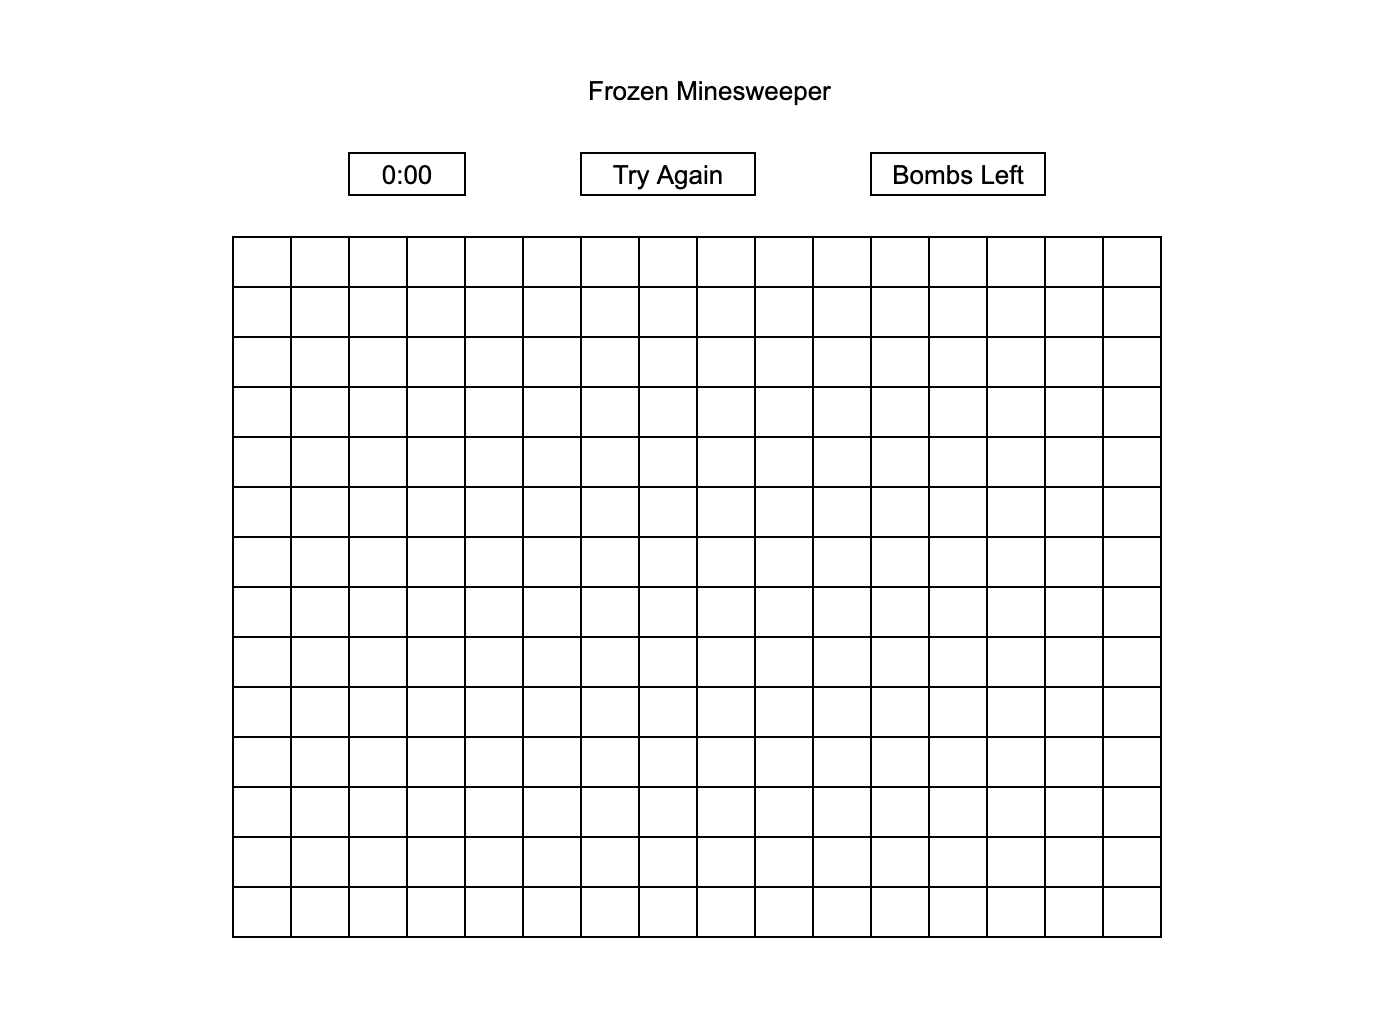
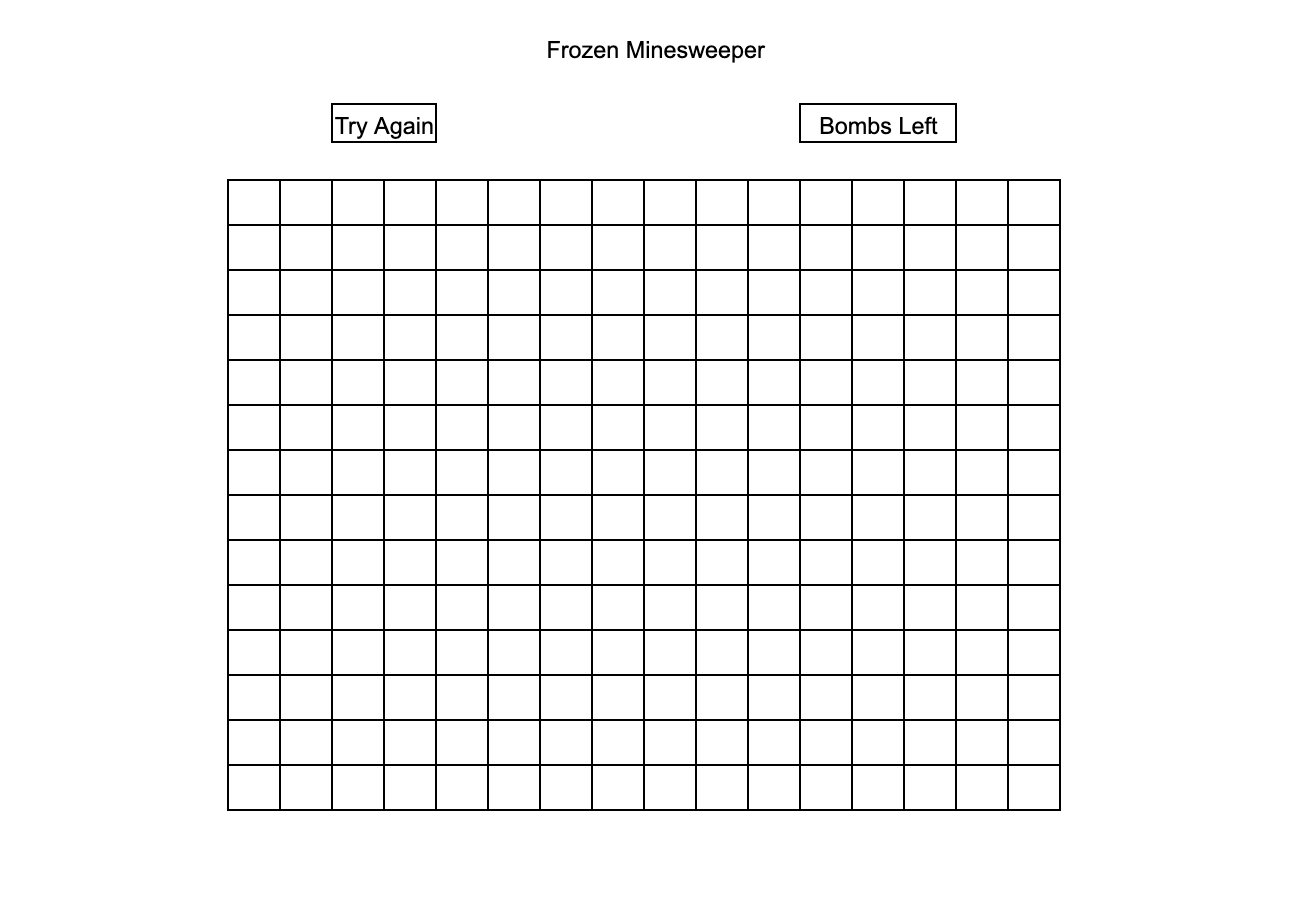
remove timer div

Changed region(s): [[0.1541, 0.0306, 0.832, 0.8884], [0.1849, 0.919, 0.832, 0.9497]]

diff --git a/index.html b/index.html
@@ -13,7 +13,6 @@
     <h1>FROZEN MINESWEEPER</h1>
     <h2 id="message"></h2>
     <section>
-        <div>00:00</div>
         <div id="restartBtn" >Try Again</div>
         <div id="flagsLeft">0</div>
     </section>

diff --git a/README.md b/README.md
@@ -60,8 +60,8 @@ Sven is tired of constantly being thought of as only a moose who loves carrots. 
 
 ## Next Steps:
 - Add a timer or stopwatch
-- Add background music or win/loss audio
+- ~~Add audio for clicks~~
+- Add falling snow in background or falling Olafs
 - Allow user input for board size
 - Allow user input for number of bombs
-- Add time tracker
 - Add mobile responsiveness
